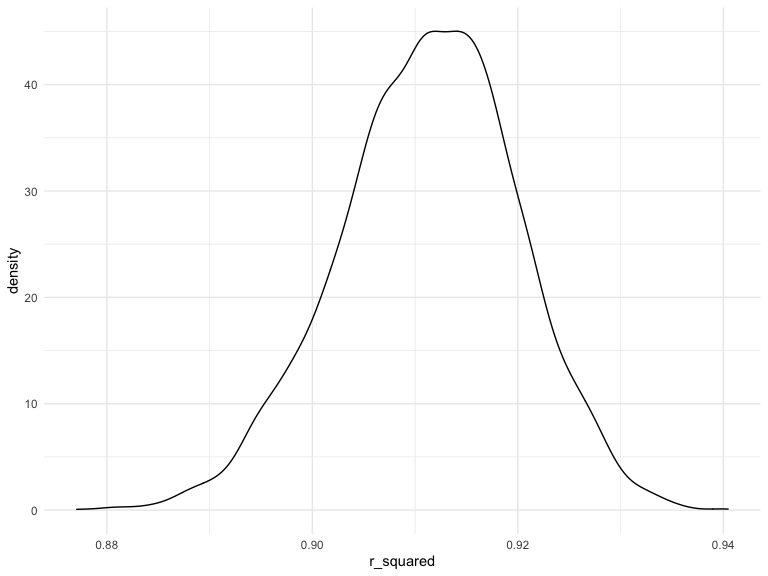
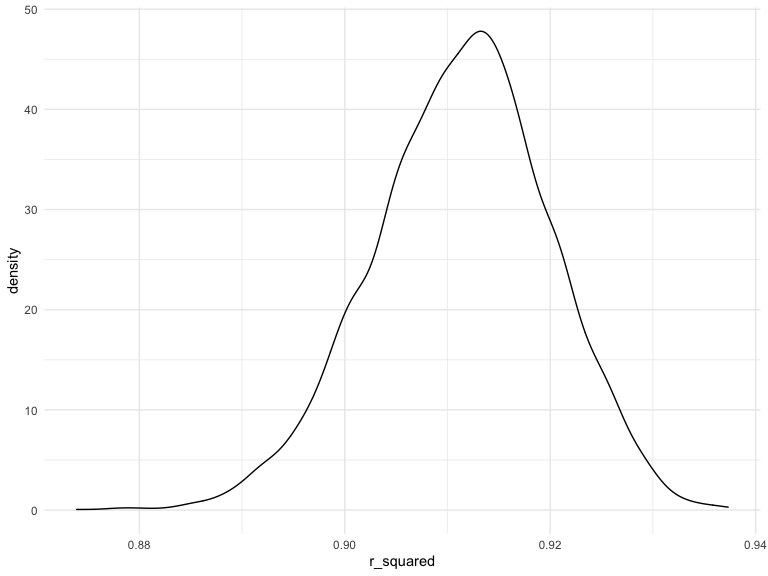
revise comments

diff --git a/p8105_hw6_qx2199.md b/p8105_hw6_qx2199.md
@@ -220,26 +220,13 @@ summary(baby_df)
     ##  3rd Qu.:134.0   3rd Qu.: 5.000   3rd Qu.: 28.00  
     ##  Max.   :287.0   Max.   :60.000   Max.   : 89.00
 
-``` r
-levels(factor(baby_df$wtgain))
-```
-
-    ##  [1] "-46" "-30" "-26" "-23" "-21" "-19" "-14" "-13" "-12" "-11" "-10" "-8" 
-    ## [13] "-7"  "-6"  "-5"  "-4"  "-3"  "-2"  "-1"  "0"   "1"   "2"   "3"   "4"  
-    ## [25] "5"   "6"   "7"   "8"   "9"   "10"  "11"  "12"  "13"  "14"  "15"  "16" 
-    ## [37] "17"  "18"  "19"  "20"  "21"  "22"  "23"  "24"  "25"  "26"  "27"  "28" 
-    ## [49] "29"  "30"  "31"  "32"  "33"  "34"  "35"  "36"  "37"  "38"  "39"  "40" 
-    ## [61] "41"  "42"  "43"  "44"  "45"  "46"  "47"  "48"  "49"  "50"  "51"  "52" 
-    ## [73] "53"  "54"  "55"  "56"  "57"  "58"  "59"  "60"  "61"  "62"  "63"  "64" 
-    ## [85] "65"  "69"  "71"  "72"  "76"  "77"  "84"  "85"  "89"
-
 The birthweight data contains 4342 rows, 20 columns, and no missing
 data.
 
-\#\#\#fit a model
+#### Fit a model
 
-fitting a model by using backward method. We want to find out he
-predictors that we want to put in our model.
+fitting a model by using backward method. We want to find out the
+predictors to put in our model.
 
 ``` r
 model_crude=lm(bwt  ~ ., data = baby_df)%>% 
@@ -426,15 +413,23 @@ summary(model_crude)
     ## Multiple R-squared:  0.7181, Adjusted R-squared:  0.7173 
     ## F-statistic: 848.1 on 13 and 4328 DF,  p-value: < 2.2e-16
 
-From the output, we could see that the variables that we want to include
-in our model are: `babysex` `bhead` `blength` `delwt` `fincome`
-`gaweeks` `mheight` `mrace` `parity` `ppwt` `smoken`
+From the output, we could see that some of the p-values for predictors
+are less than 0.05, such as the `babysex` `bhead` `blength` `delwt`
+`gaweeks` `mheight` `parity` `ppwt` `smoken` , we should include then in
+the model.Also, for some predictors such as such as `fincome` and
+`mrace`, the p-values are slightly greater than 0.05. Therefore, in
+terms of predictor selection, we could also select them into our model.
+Therefore, the pridictors that we put in our model are:`babysex` `bhead`
+`blength` `delwt` `fincome` `gaweeks` `mheight` `mrace` `parity` `ppwt`
+`smoken`
 
-\#\#\#\#fit the model with these variables:
+#### Fit the model with these variables:
 
 ``` r
 model_fit = lm(bwt ~ babysex + bhead + blength + delwt + fincome + gaweeks + mheight + mrace + parity + ppwt + smoken, data = baby_df) 
 ```
+
+#### Plot of model residuals against fitted values
 
 ``` r
   baby_df %>% 
@@ -445,17 +440,20 @@ model_fit = lm(bwt ~ babysex + bhead + blength + delwt + fincome + gaweeks + mhe
 ```
 
 <img src="p8105_hw6_qx2199_files/figure-gfm/unnamed-chunk-8-1.png" width="90%" />
-From the residual plot, we could see that most of the residuals are not
-heavily skewed,especially when the predicted value is higher than 2000g.
-However, when the predicted values are smaller than 2000, there are
-outliers; when the predicted value decrease, residual goes up.
+
+From the residual plot, we could see that the distribution for most of
+the residuals are not heavily skewed, the center for most of the
+residuals are around 0, especially when the predicted value is higher
+than 2000. However, when the predicted values are smaller than 2000,
+there are outliers–as the predicted value decrease, residuals increase.
 
 \*Compare your model to two others: One using length at birth and
-gestational age as predictors (main effects only) One using head
-circumference, length, sex, and all interactions (including the
-three-way interaction) between these
+gestational age as predictors (main effects only)–model main One using
+head circumference, length, sex, and all interactions (including the
+three-way interaction) between these–model inter
 
 ``` r
+#cross validation
 cross_validation = 
   crossv_mc(baby_df, 100) %>% 
   mutate(
@@ -470,7 +468,7 @@ cross_validation =
     rmse_main = map2_dbl(model_main, test, ~rmse(model = .x, data = .y)),
     rmse_inter = map2_dbl(model_inter, test, ~rmse(model = .x, data = .y)),
   )
-
+# plot for RMSE
 rmse_plot = 
   cross_validation  %>% 
   select(starts_with("rmse")) %>% 
@@ -489,16 +487,15 @@ rmse_plot
 
 <img src="p8105_hw6_qx2199_files/figure-gfm/unnamed-chunk-9-1.png" width="90%" />
 
-According to the average RMSE value and the violin plot, my model (with
-preictors: `babysex` `bhead` `blength` `delwt` `fincome` `gaweeks`
-`mheight` `mrace` `parity` `ppwt` `smoken` ) has the lowest RMSE.
-Therefore, it’s the best model among the three.The model with only main
-effects ( `blength` `gaweeks` ) has the highest RMSE and hence is the
-worst one.The model with length, sex, and all interactions has the
-medium RMSE among the three models. Therefore, it’s the second best
-model.
+According to the plot,my model (model\_one, with preictors: `babysex`
+`bhead` `blength` `delwt` `fincome` `gaweeks` `mheight` `mrace` `parity`
+`ppwt` `smoken` ) has the lowest RMSE. Therefore, it’s the best model
+among the three models.The model with only main effects ( `blength`
+`gaweeks` ) has the highest RMSE and hence is the worst one.The model
+with length, sex, and all interactions has the medium RMSE among the
+three models. Therefore, it’s the second best model.
 
-\#problem 3
+### Problem 3
 
 load the data
 
@@ -527,10 +524,10 @@ weather_df =
     ## file min/max dates: 1869-01-01 / 2020-10-31
 
 \*Use 5000 bootstrap samples and, for each bootstrap sample, produce
-estimates of these two quantities. Plot the distribution of your
-estimates, and describe these in words.
+estimates of these two quantities.
 
 ``` r
+set.seed(1)
 weather_new = 
 weather_df %>% 
 modelr::bootstrap(n = 5000) %>% 
@@ -549,6 +546,10 @@ weather_final=
   mutate(log_one_zero = log(intercept*tmin))
 ```
 
+\*Plot the distribution of your estimates, and describe these in words.
+
+##### Plot the distribution for r-square
+
 ``` r
  weather_final %>% 
   ggplot(aes(x = r_squared)) + 
@@ -556,9 +557,10 @@ weather_final=
 ```
 
 <img src="p8105_hw6_qx2199_files/figure-gfm/unnamed-chunk-12-1.png" width="90%" />
-
 For the r squared distribution plot, it’s little-bit left-skewed with
-the mean of 0.9112686
+peak that around 0.913.
+
+##### Plot the distribution for log(beta0 \*beta1)
 
 ``` r
  weather_final %>% 
@@ -567,8 +569,10 @@ the mean of 0.9112686
 ```
 
 <img src="p8105_hw6_qx2199_files/figure-gfm/unnamed-chunk-13-1.png" width="90%" />
-The log(beta0 \*beta1) plot,it’s approximately normal-distributed, with
-the mean of 2.0132792
+The log(beta0 \*beta1) is approximately normal-distributed, with peak
+that around 2.012
+
+#### 95% confidence interval for r-square
 
 ``` r
 r_ci = 
@@ -587,6 +591,8 @@ r_ci
 
 95%CI for r-square is (0.894, 0.927)
 
+#### 95% confidence interval for log(beta0 \* beta1)
+
 ``` r
 log_ci = 
   weather_final %>% 
@@ -600,6 +606,6 @@ log_ci
 
 | log\_ci\_lower | log\_ci\_upper |
 | -------------: | -------------: |
-|          1.967 |          2.059 |
+|          1.965 |          2.059 |
 
-95%CI for log(beta0 \* beta1) is (1.967, 2.059)
+95%CI for log(beta0 \* beta1) is (1.965, 2.059)
